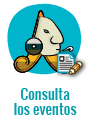
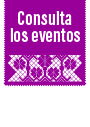
Cambios para Mayo: mes de la naturaleza mexicana

diff --git a/css/style.css b/css/style.css
@@ -9,8 +9,8 @@
 */
 
 :root {
-	--mainColor: #af7e30;
-	--subColor: #cc9a17;
+	--mainColor: #632766;
+	--subColor: #8C288B;
 }
 
 /* Basic */
@@ -54,9 +54,9 @@ a {
 	text-decoration: none;
 }
 
-a:hover {
+a:hover, a:active {
 	border-bottom-color: transparent;
-	color: #3E2819 !important;
+	color: #410144 !important;
 	text-decoration: none;
 }
 

diff --git a/protected/views/semana/inicio.php b/protected/views/semana/inicio.php
@@ -1,4 +1,19 @@
-<p>La Comisi&oacute;n Nacional para el Conocimiento y Uso de la  Biodiversidad <span class="conabio">(Conabio)</span> te invita a participar activamente en la&nbsp;<strong>9a. Semana de la Diversidad Biol&oacute;gica</strong>, del <strong>21 al 25 de mayo </strong>del a&ntilde;o en curso,  realizando <a href="<?php echo Yii::app()->request->baseUrl; ?>/index.php?r=semana/admin">actividades de divulgaci&oacute;n</a><strong>.</strong></p>
+<p>Este mes de mayo termina la <strong>Década Internacional de la Diversidad Biológica</strong>, una década dedicada a hacer esfuerzos para promover el conocimiento, valoración y buen manejo de la naturaleza. La mayoría de los países del mundo celebraron el <strong>22 de mayo, día internacional de la diversidad biológica</strong>.</p>
+
+<p>En México, hemos celebrado nueve ediciones de la <strong>Semana de la Diversidad Biológica</strong> con una gran participación de la sociedad mexicana: escuelas, organizaciones de la sociedad civil, universidades, municipios, ejidos, comunidades, todos han participado promoviendo la naturaleza a través de charlas, conferencias, videos, salidas a playas, parques, arroyos, conciertos, manualidades, etc.</p>
+
+<p>Para las Naciones Unidas, el 2020 es el <strong>Año Internacional de la Salud de las Plantas</strong>, un tema realmente tan importante como amplio, que va desde la conservación de los ecosistemas hasta nuestra alimentación. El Convenio de Diversidad Biológica celebra el Día Internacional de la Diversidad Biológica en el 2020 con el tema <strong>“Nuestras soluciones están en la naturaleza”</strong>.</p>
+
+<p>Para participar en esta celebración, el Convenio de Diversidad Biológica sugiere los siguientes temas:</p>
+<ul>
+	<li>El entendimiento de la biodiversidad, su pérdida y soluciones para un futuro sostenible: la ciencia y el conocimiento tradicional</li>
+	<li>Distintas maneras de conservar la biodiversidad</li>
+	<li>Salud, agricultura, alimentación, seguridad alimentaria y biodiversidad</li>
+	<li>Gente, cultura y biodiversidad, cambio climático, biodiversidad y tierra</li>
+	<li>Nuestras soluciones están en la naturaleza</li>
+</ul>
+
+<p>Durante <strong>Mayo: mes de la naturaleza mexicana</strong>, como en los años anteriores, la Comisi&oacute;n Nacional para el Conocimiento y Uso de la  Biodiversidad <span class="conabio">(Conabio)</span> te invita a participar utilizando los matriales que hemos seleccionado y subiendo <a href="<?php echo Yii::app()->request->baseUrl; ?>/index.php?r=semana/admin">actividades en línea al calendario nacional de la página</a>.</p>
 
 <center>
 <h4><a href="<?php echo Yii::app()->request->baseUrl; ?>/index.php?r=usuarios/create">¡Súmate y participa desde tu estado!</a> | 
@@ -6,26 +21,20 @@
 <br>
 </center>
 
-<div style="display: inline-block; width: 35%; float: left" id="programa_sdb">
+<!--<div style="display: inline-block; width: 35%; float: left" id="programa_sdb">
 <a href="<?php echo Yii::app()->request->baseUrl; ?>/imagenes/pagina/programa_9SDB_carta.jpg" target="_blank"><img src="<?php echo Yii::app()->request->baseUrl; ?>/imagenes/pagina/programa_9SDB_carta.jpg" width="200" height="155" alt=""/></a<br><br>
 <a href="<?php echo Yii::app()->request->baseUrl; ?>/imagenes/pagina/programa_9SDB_carta.jpg" target="_blank">Programa en la Librería<br>
 Rosario Castellanos</a><br><br>
-</div>
+</div>-->
   
-<div style="display: inline-block; width: 65%; float: left" id="video_sdb">
-<!--<iframe width="90%" height="315" src="https://www.youtube.com/embed/tg55eKqZ_WQ?rel=0&amp;showinfo=0" frameborder="0" allowfullscreen></iframe><br><br>-->
+<!--<div style="display: inline-block; width: 65%; float: left" id="video_sdb">
 <img src="<?php echo Yii::app()->request->baseUrl; ?>/imagenes/pagina/ic_video.png" width="25" height="22" /> <span class="tit_materiales">Lista de reproducción</span>
-<!-- Linea --><hr/>
-
+<hr/>
 <iframe width="100%" height="260" src="https://www.youtube.com/embed/tg55eKqZ_WQ?list=PLLAcoRHqCmNQqFpmvI0-jvk-8xF7WaXoZ" frameborder="0" allowfullscreen></iframe>	
-	
 </div>
-<br>
-<p>La década de la diversidad biológica de 2011 a 2020 tiene el propósito de aumentar las actividades de difusión para que todos conozcamos la situación de la diversidad biológica y participemos en su manejo sustentable, restauración y conservación.</p>
+<br>-->
 
-<p>Cada 22 de mayo se celebra el día de la diversidad biológica, este 2019 celebraremos con el tema <span class="slogan">"Nuestra biodiversidad, nuestra alimentación, nuestra salud"</span>.</p>
-
-<p>Organiza alguna conferencia o charla para el público general sobre biodiversidad, alimentación y salud o un evento que ayude al público a reflexionar sobre cómo la biodiversidad repercute en nuestra alimentación y salud. Si tienes alguna duda o requieres m&aacute;s informaci&oacute;n escr&iacute;benos a:&nbsp;<a href="mailto:sdb@conabio.gob.mx">sdb@conabio.gob.mx</a>.
+<p>Si tienes alguna duda o requieres m&aacute;s informaci&oacute;n escr&iacute;benos a:&nbsp;<a href="mailto:eventos@conabio.gob.mx">eventos@conabio.gob.mx</a>.
 </p>
 
 
@@ -34,9 +43,7 @@ Rosario Castellanos</a><br><br>
 
 <a href="https://www.cbd.int/2011-2020/" target="_blank"><img src="<?php echo Yii::app()->request->baseUrl; ?>/imagenes/pagina/logo_2011_2020.png" width="147" height="59"/></a>&nbsp;&nbsp;
 	
-<a href="https://fondodeculturaeconomica.com/RedLibrerias.aspx?id_lib=4" target="_blank"><img src="<?php echo Yii::app()->request->baseUrl; ?>/imagenes/pagina/logo_libreriarc.png" width="229" height="128"/></a>
-	
-<a href="https://www.cbd.int/idb/2019/" target="_blank"><img src="<?php echo Yii::app()->request->baseUrl; ?>/imagenes/pagina/logo_DIDB.jpg" width="150" height="84"/></a>
+<a href="https://www.cbd.int/idb/2020/" target="_blank"><img src="<?php echo Yii::app()->request->baseUrl; ?>/imagenes/pagina/logo_DIDB.jpg" width="216" height="84"/></a>
 
 </center>
                         

diff --git a/protected/views/semana/ponentes.php b/protected/views/semana/ponentes.php
@@ -17,10 +17,10 @@ $( "#accordion" ).accordion({
 
 
 <!--<h1>Ponentes</h1><br>-->
-<span>Del 21 al 25 de mayo se realizaron actividades sobre Nuestra biodiversidad, nuestra alimentación, nuestra salud.</span><br><br>
 
 
-<div style="width: 100%; display: ; text-align: center; float:left; display:;">
+
+<div style="width: 100%; display: ; text-align: center; float:left; display:none;">
 
 <iframe width="100%" height="350" src="https://www.youtube.com/embed/tg55eKqZ_WQ?list=PLLAcoRHqCmNQqFpmvI0-jvk-8xF7WaXoZ" frameborder="0" allowfullscreen></iframe>
 	<br><br><br>
